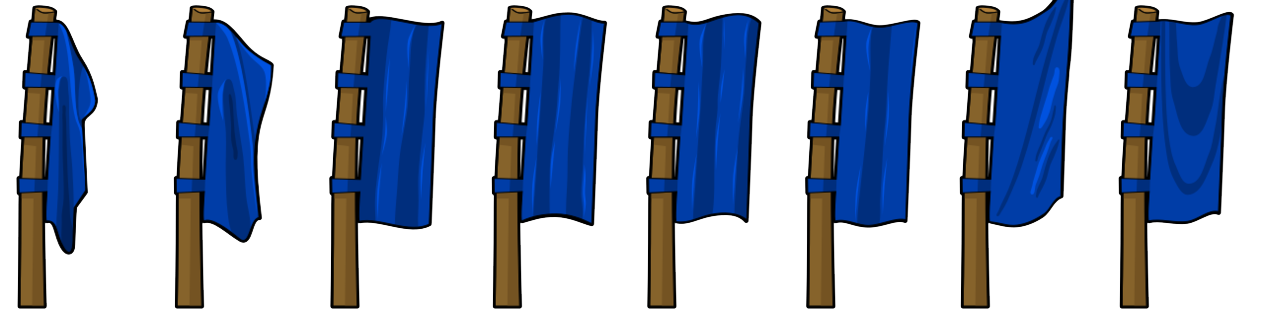
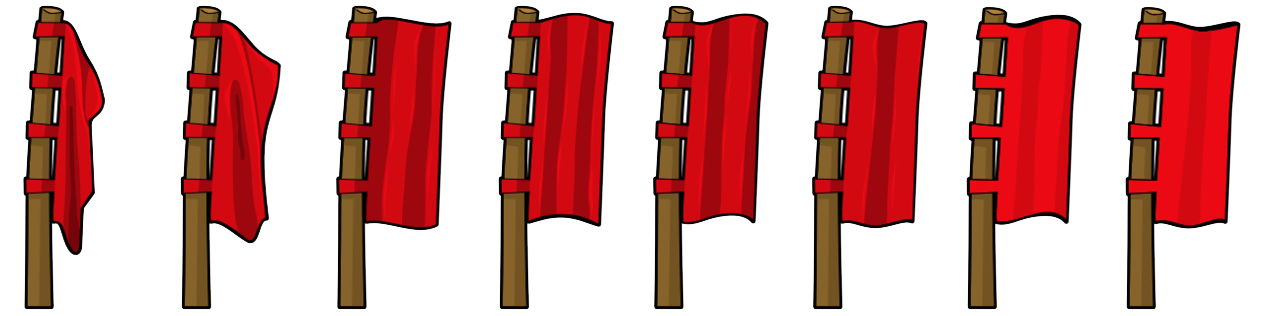
updated colors

diff --git a/index.html b/index.html
@@ -13,13 +13,9 @@
 
                 var player1X = 50;
                 var player1Y = 100;
-                var flag1X = 50;
-                var flag1Y = 200;
 
                 var player2X = 500;
                 var player2Y = 100;
-                var flag2X = 500;
-                var flag2Y = 200;
 
                 var tileSize = 16;
                 var mapX = 1024;
@@ -74,8 +70,8 @@
 
                     //flags
                     flags = game.add.group();
-                    flag1 = flags.create(flag1X, flag1Y, 'flag1', 0);
-                    flag2 = flags.create(flag2X, flag2Y, 'flag2', 0);
+                    flag1 = flags.create(player1X, player1Y, 'flag1', 0);
+                    flag2 = flags.create(player2X, player2Y, 'flag2', 0);
 
                     flags.callAll('animations.add', 'animations', 'windy', [0, 1, 2, 3, 4, 5, 6, 7, 8, 7, 6, 5, 4, 3, 2, 1], 4, true);
                     flags.callAll('animations.play', 'animations', 'windy');
